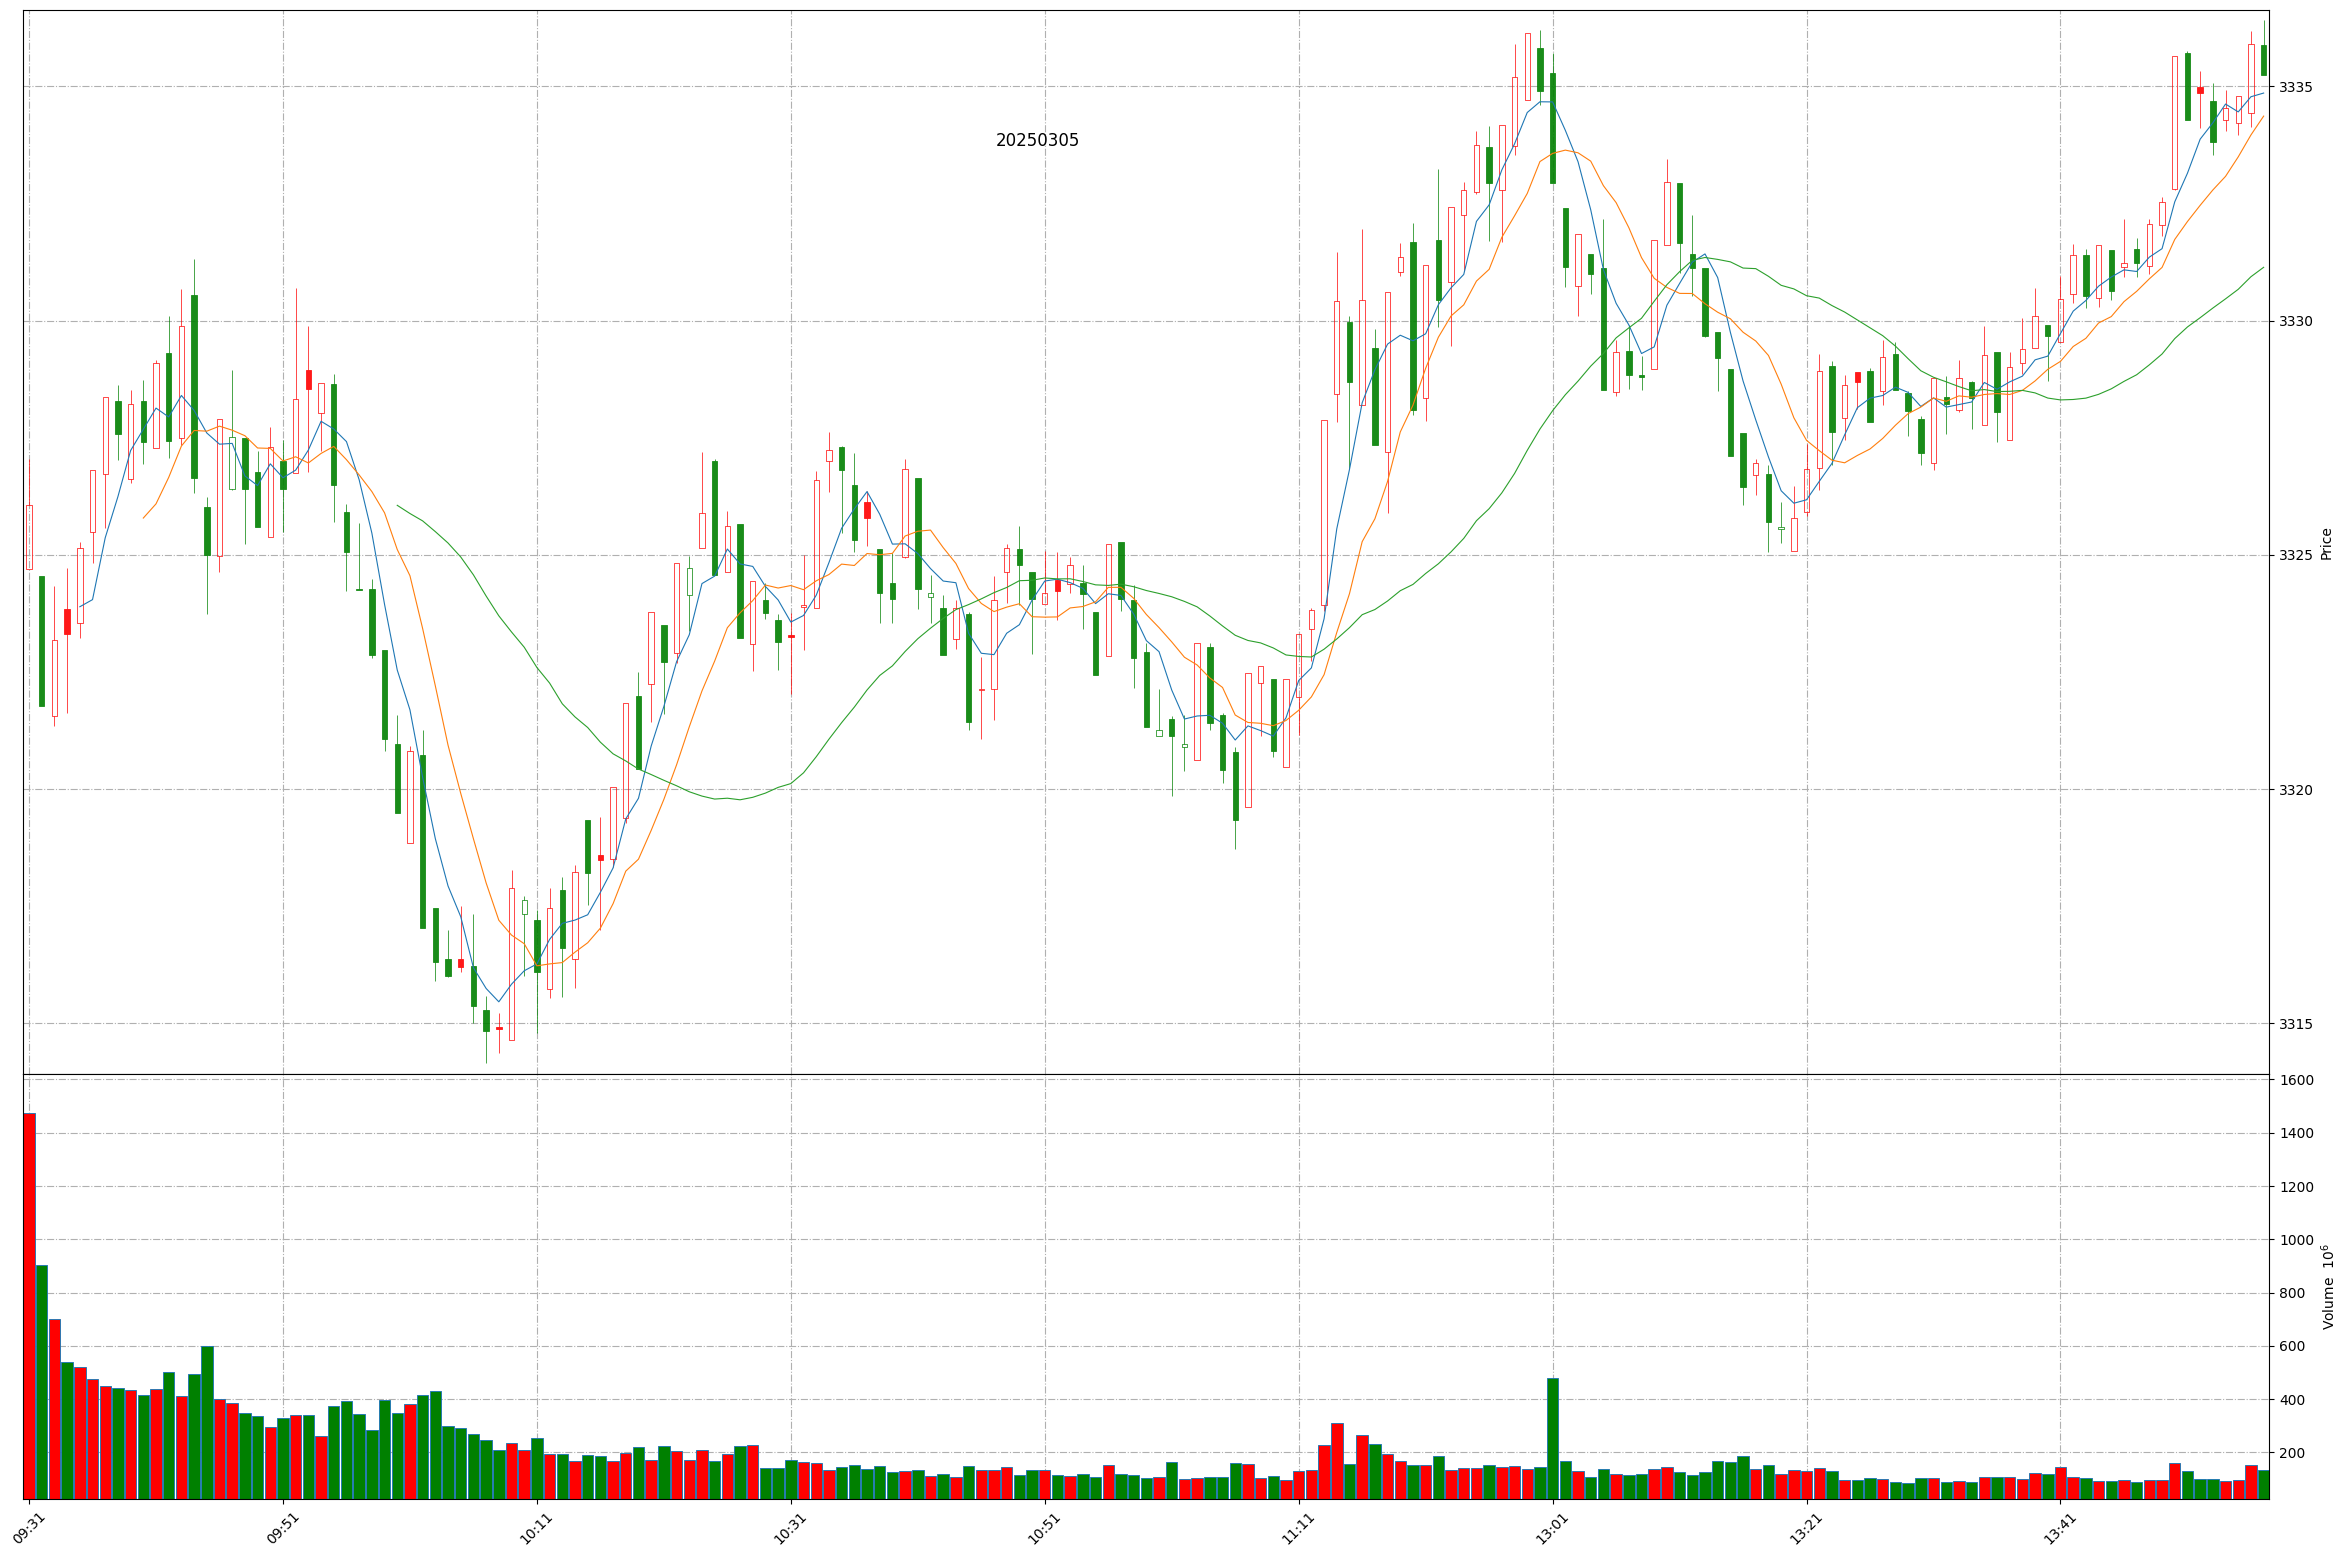
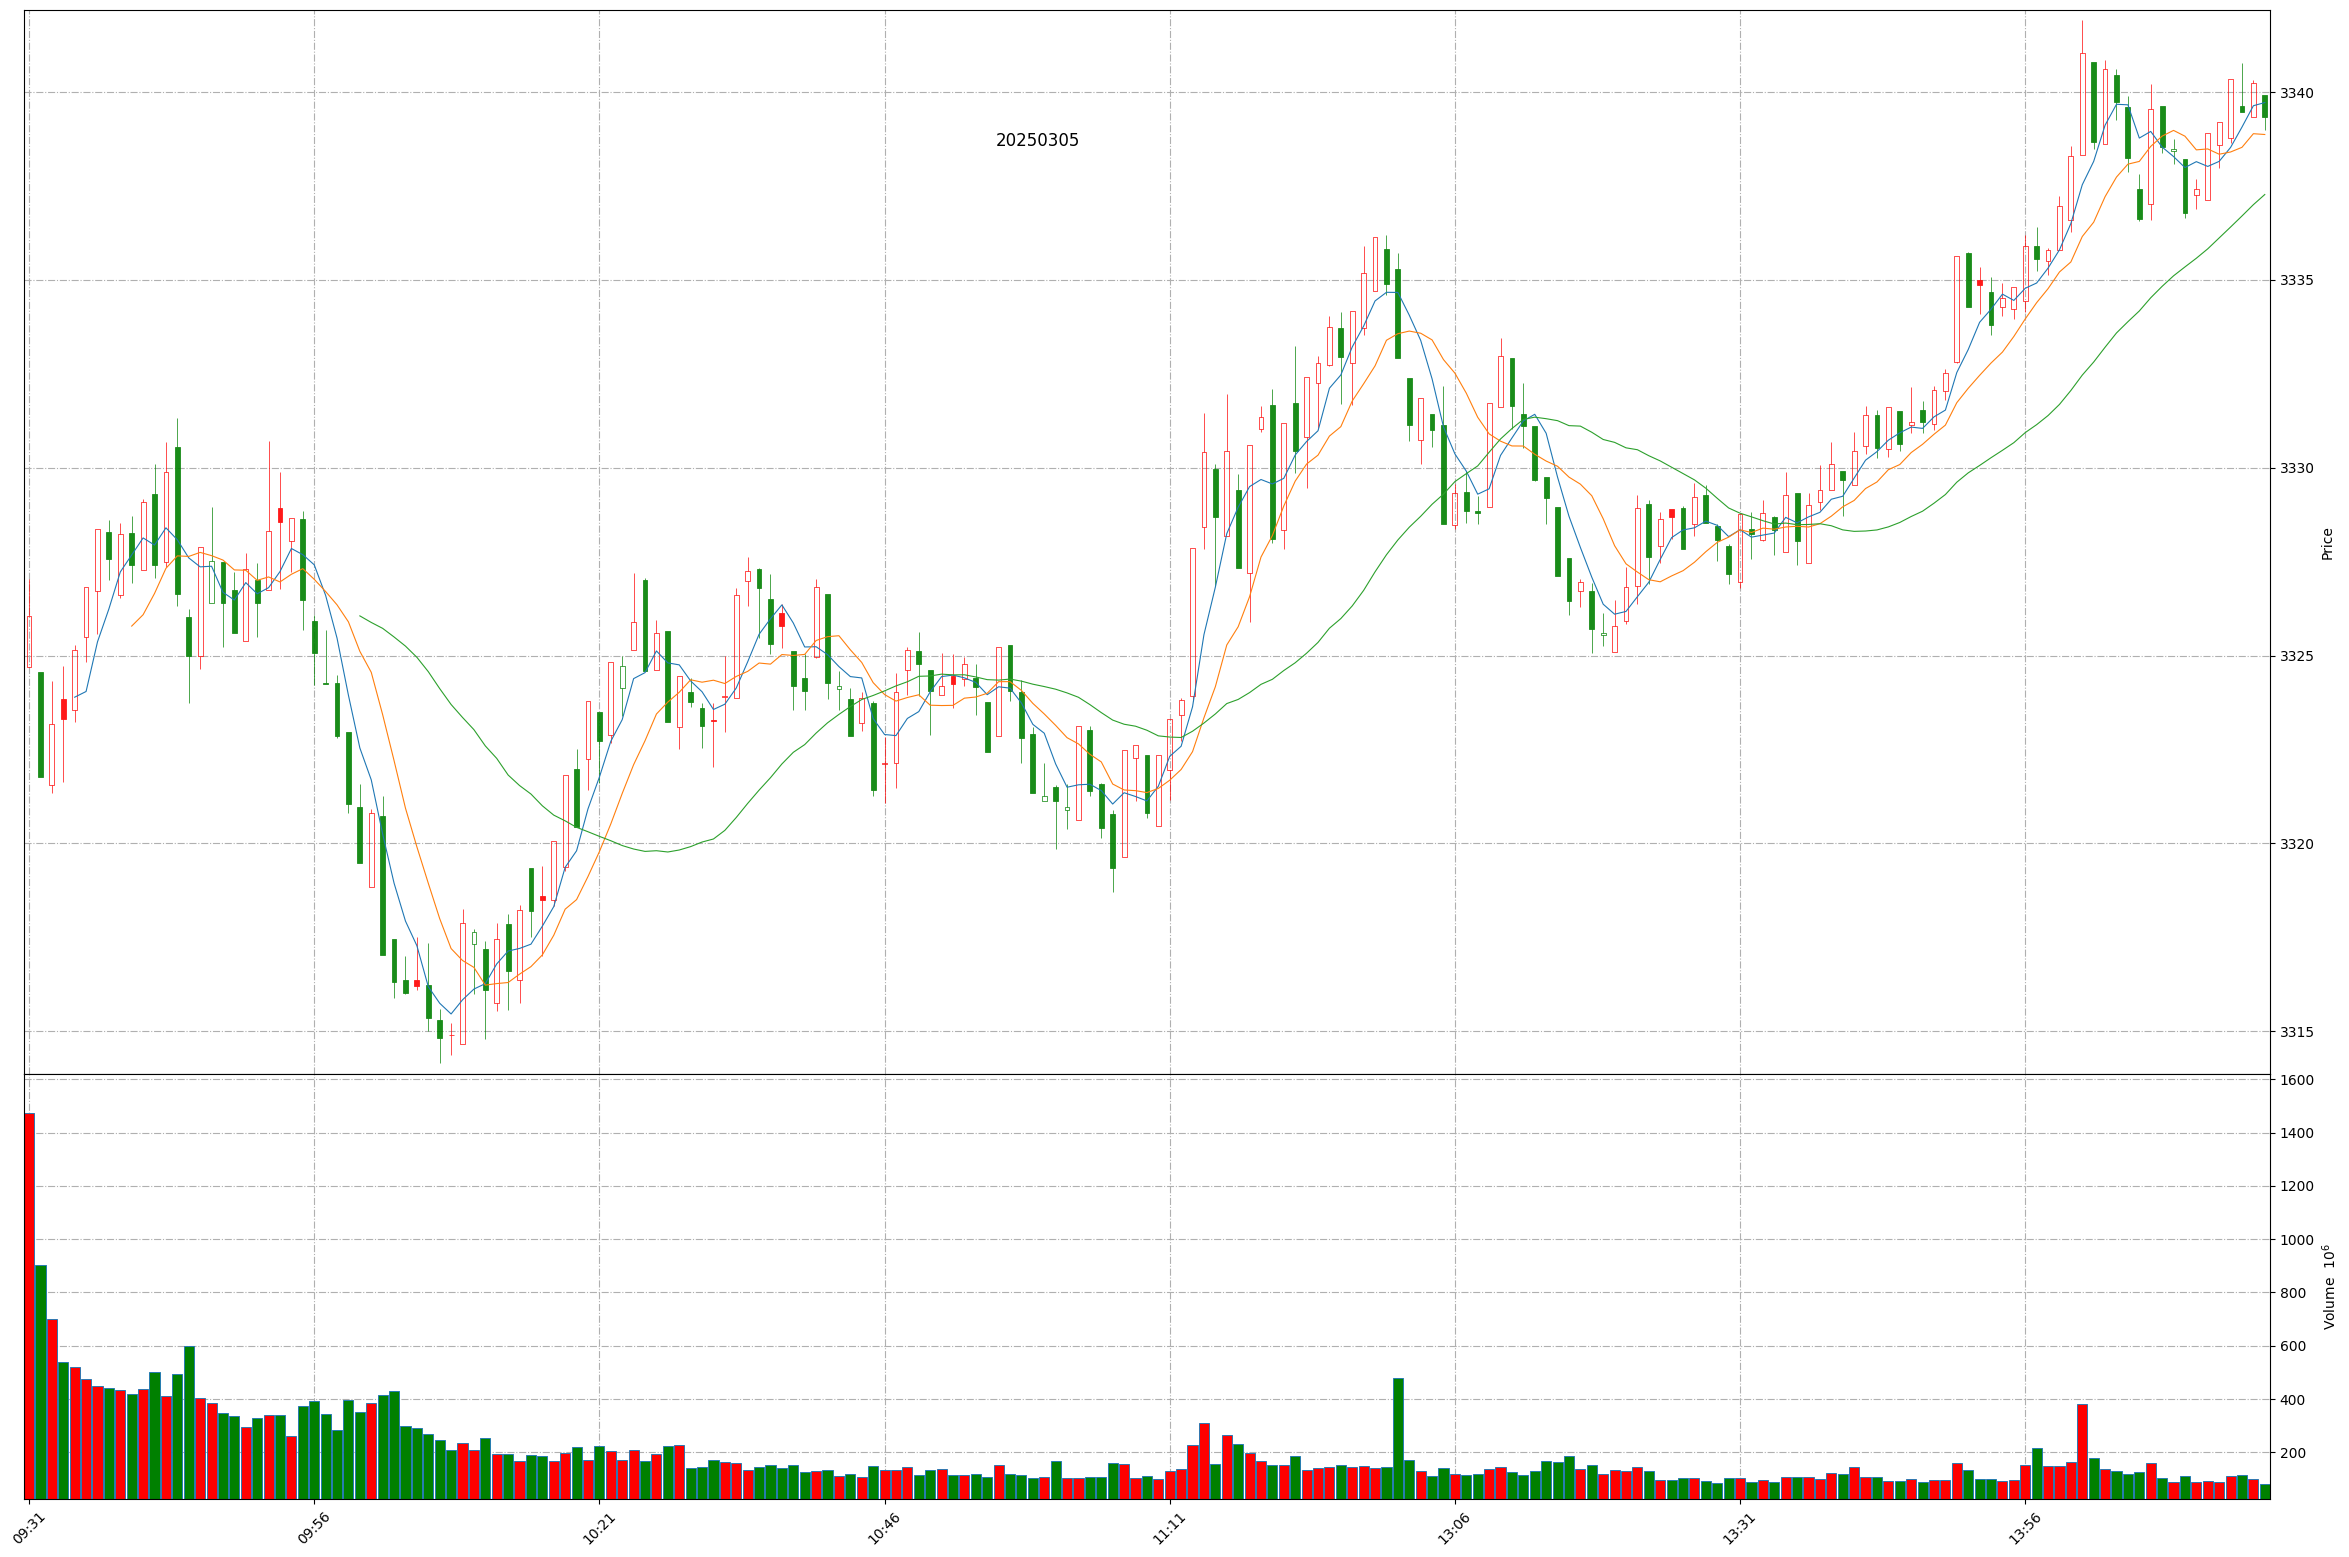
Github action update at 2025-03-05 14:17:02.

Changed region(s): [[0.0, 0.0308, 0.9949, 0.6782], [0.0, 0.8324, 0.9638, 0.9865], [0.3109, 0.4933, 0.342, 0.5241]]

diff --git a/README.md b/README.md
@@ -1,11 +1,11 @@
 
 # Daily-A-share-market-quotes 每日 A 股指数（5min 更新）- 20250305
 
-### 上证指数 20250305 13:56
+### 上证指数 20250305 14:17
 ![](./fig/2025/3/20250305-sh000001.png)
 
-### 深证成指 20250305 13:56
+### 深证成指 20250305 14:17
 ![](./fig/2025/3/20250305-sz399001.png)
 
-### 北证50 20250305 13:56
+### 北证50 20250305 14:17
 ![](./fig/2025/3/20250305-bj899050.png)
